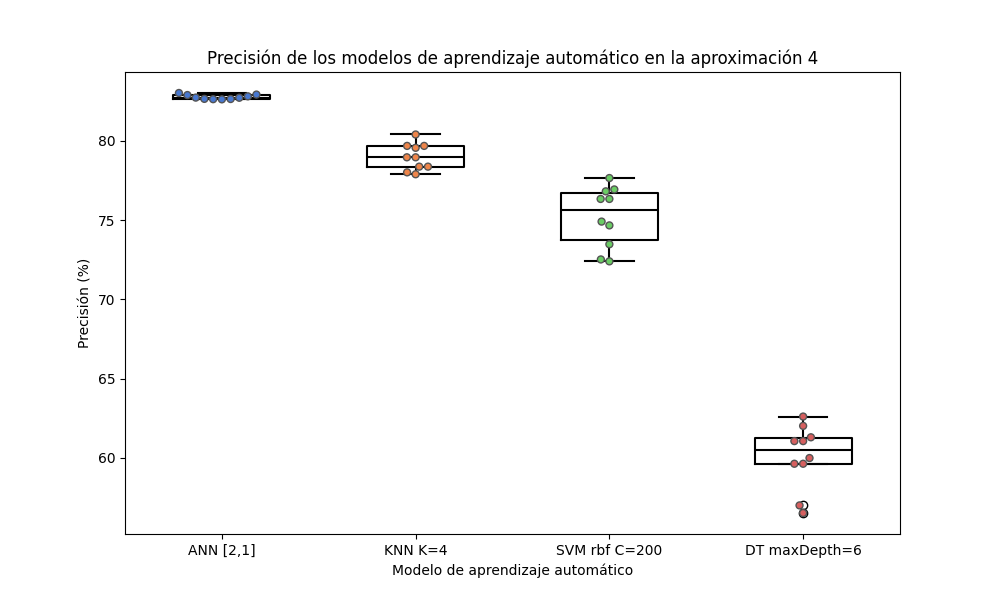
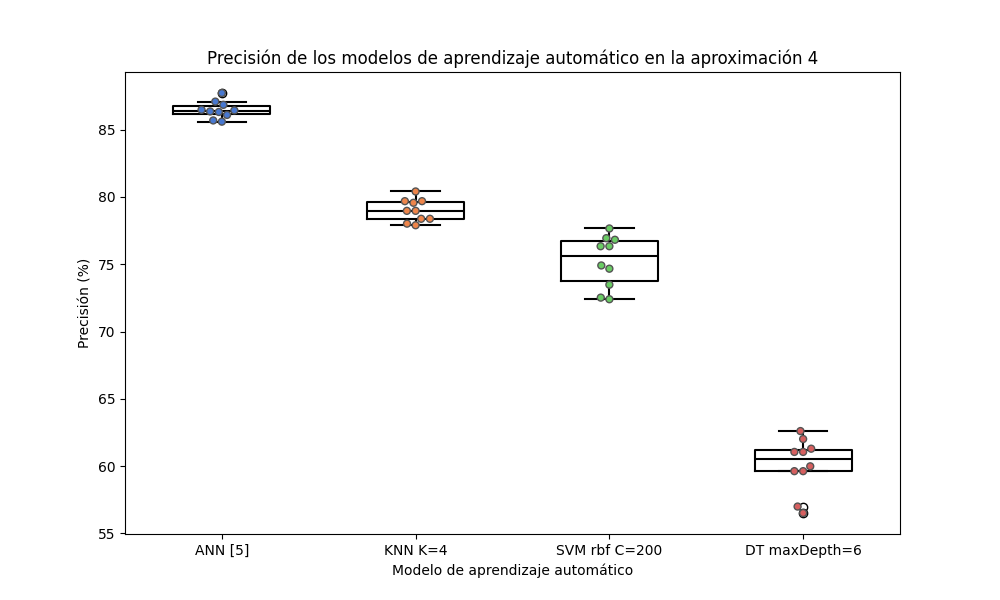
Plot aprox4

diff --git a/swarm_plot.py b/swarm_plot.py
@@ -140,16 +140,16 @@ data = [
     ["DT maxDepth=6", 75.94, 3],
 
     #APROX4
-    ["ANN [2,1]", 82.82, 4],
-    ["ANN [2,1]", 82.93, 4],
-    ["ANN [2,1]", 83.03, 4],
-    ["ANN [2,1]", 82.63, 4],
-    ["ANN [2,1]", 82.65, 4],
-    ["ANN [2,1]", 82.73, 4],
-    ["ANN [2,1]", 82.90, 4],
-    ["ANN [2,1]", 82.66, 4],
-    ["ANN [2,1]", 82.64, 4],
-    ["ANN [2,1]", 82.74, 4],
+    ["ANN [5]", 86.48, 4],
+    ["ANN [5]", 87.09, 4],
+    ["ANN [5]", 86.32, 4],
+    ["ANN [5]", 86.1, 4],
+    ["ANN [5]", 85.60, 4],
+    ["ANN [5]", 86.36, 4],
+    ["ANN [5]", 87.73, 4],
+    ["ANN [5]", 85.69, 4],
+    ["ANN [5]", 86.85, 4],
+    ["ANN [5]", 86.44, 4],
 
     ["KNN K=4", 77.90, 4],
     ["KNN K=4", 78.97, 4],
